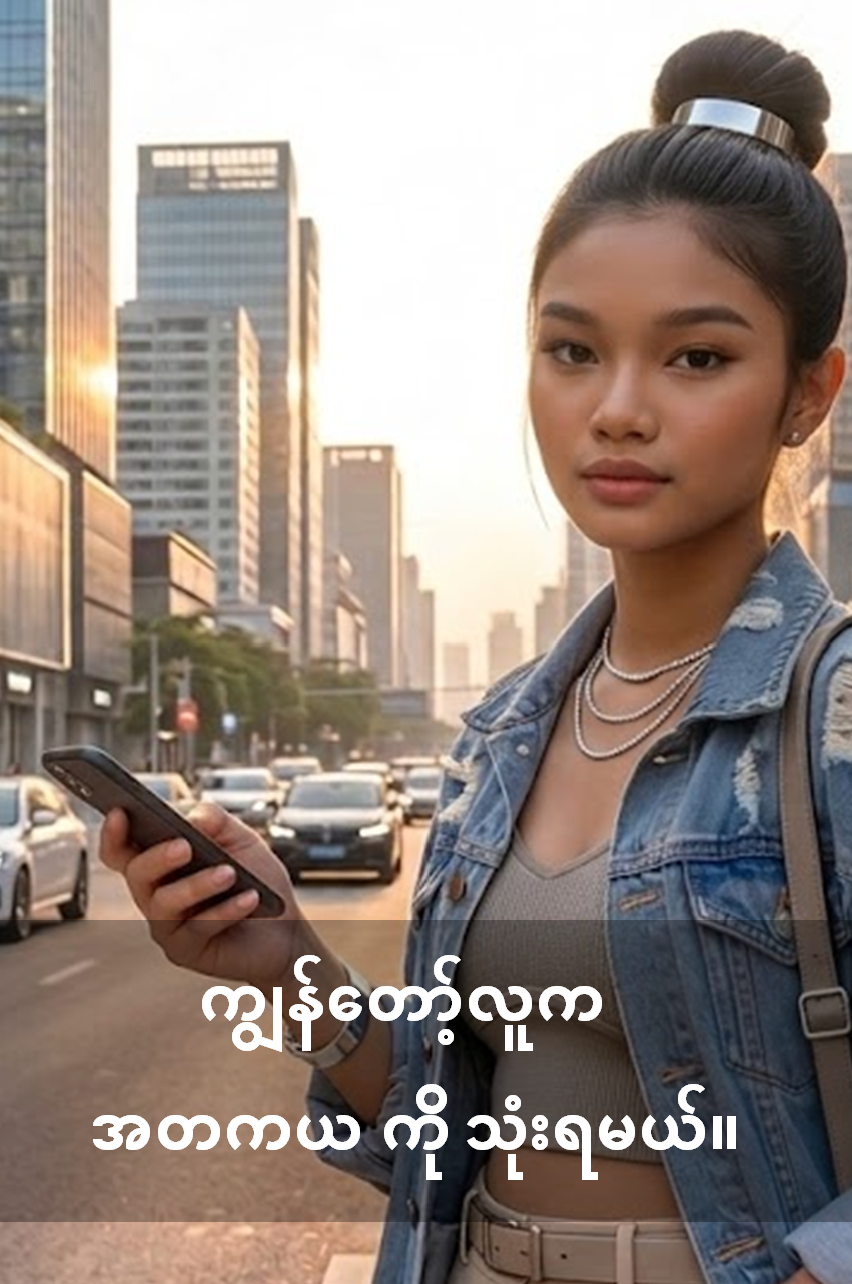
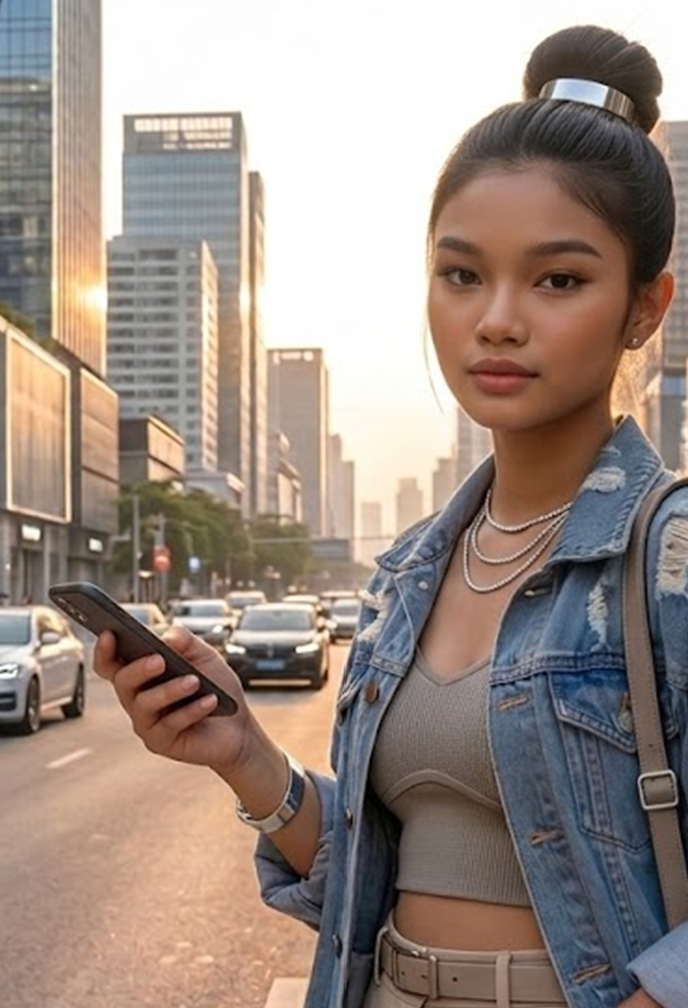
Add files via upload

diff --git a/index.html b/index.html
@@ -6,10 +6,44 @@
     <title>အတကယ</title>
     <script src="https://cdn.tailwindcss.com"></script>
     <link rel="icon" href="images/logo.png" type="image/png">
-    <style>
-        @import url('https://fonts.googleapis.com/css2?family=Noto+Sans+KR:wght@300;400;700;900&display=swap');
-        body { font-family: 'Noto Sans KR', sans-serif; word-break: keep-all; }
-    </style>
+<style>
+    /* 태국어에 최적화된 Sarabun 폰트를 불러옵니다 */
+    @import url('https://fonts.googleapis.com/css2?family=Sarabun:wght@300;400;700&display=swap');
+    
+    body { 
+        font-family: 'Sarabun', sans-serif; 
+        word-break: keep-all; 
+		line-break: loose;
+		overflow-x: hidden; /* 가로 스크롤 방지 */
+    }
+	span, p, h3 {
+    word-break: break-word;
+    overflow-wrap: break-word;
+}
+.hero-copy {
+    color: #ff0000;
+    left: 50%;
+    top: 50%;
+    transform: translate(-50%, -50%);
+    font-size: clamp(2rem, 6vw, 4rem);
+    text-shadow: 1px 1px 3px rgba(0,0,0,0.15);
+    white-space: nowrap;
+    text-align: center;
+}
+@media (max-width: 767px) {
+    .hero-copy {
+        color: white;
+        top: auto;
+        bottom: 12%;
+        transform: translateX(-50%);
+        font-size: clamp(2rem, 11vw, 2rem);
+        white-space: normal;
+        width: 90%;
+        text-shadow: 1px 1px 4px rgba(0,0,0,0.4);
+        bottom: 40%;
+    }
+}
+</style>
 </head>
 <body class="bg-gray-50 text-gray-900 leading-relaxed">
 
@@ -33,8 +67,11 @@
 <section class="w-full relative">
     <picture>
         <source media="(max-width: 767px)" srcset="images/hero_mobile.png">
-        <img src="images/hero.png" alt="Atakaya Hero" class="w-full object-cover">
+        <img src="images/hero.png" alt="Hatabang Hero" class="w-full object-cover">
     </picture>
+    <p class="absolute font-bold leading-snug hero-copy">
+        ကျွန်ုပ်တို့သည် အတကယ မျိုးဆက်ဖြစ်သည်
+    </p>
 </section>
 
 <section id="intro" class="py-20 bg-white text-center px-6">
